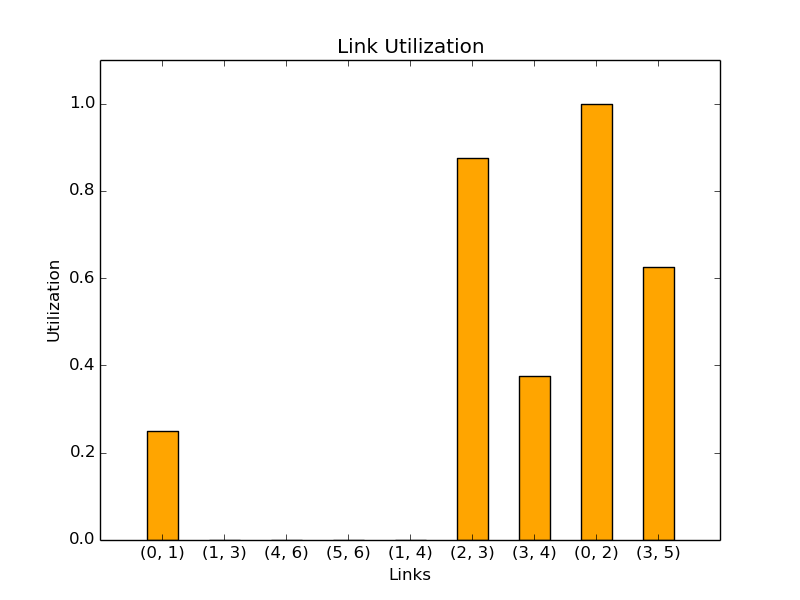
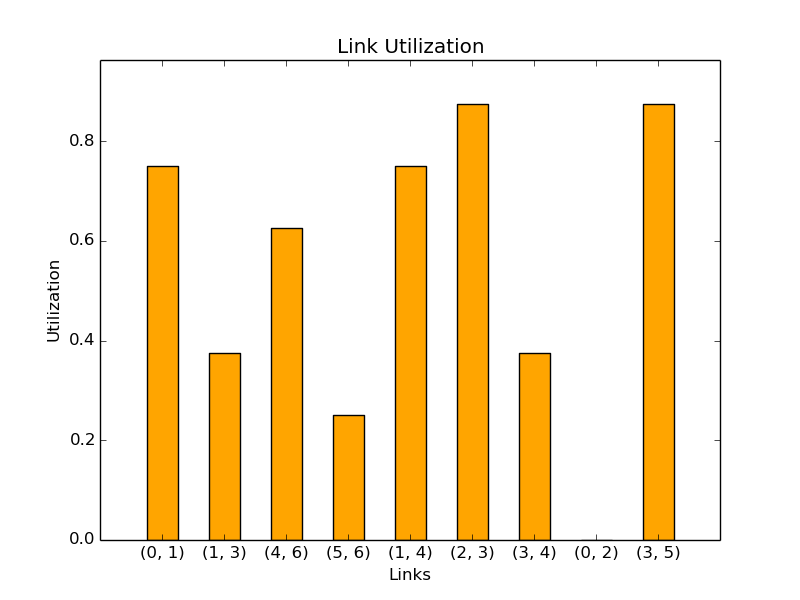
working new version of reroute - still to tidy up and check logic

diff --git a/pathfinder.py b/pathfinder.py
@@ -100,9 +100,9 @@ for j in range(repeats):
 				optimal_path = gf.select_path(path_pack_in_empty_graph, path_selection_criterion)
 				print 'The best path in the empty graph would be: '+str(optimal_path)
 
-				# find the shoretst intersection path of optimal path with previous allocated paths p_u (according to d_u)			
-				shortest_intersect=gf.check_setintersect(optimal_path, gf.sel_paths(d_list).values())
-				print 'having the shortest intersection path: '+str(shortest_intersect)
+				# find the shoretst intersection (but it must intersect! thresh=1) path of optimal path with previous allocated paths p_u (according to d_u)			
+				shortest_intersect=gf.check_setintersect(optimal_path, gf.sel_paths(d_list).values(),1)
+				print 'having the shortest intersection path: of optimal path with previous allocated paths p_u (according to d_u) '+str(shortest_intersect)
 
 				# if intersections found, try to reroute
 				if shortest_intersect!=[]:
@@ -120,10 +120,9 @@ for j in range(repeats):
 					if len(d_u_paths)>0:
 						print 'corresponds to demand number: '+str(d_u)+' to the demand: '+str(d_list[d_u].source)+' ==> '+str(d_list[d_u].target)
 						print 'which has the following alternative paths stored: '+str(d_u_paths)
-						p_u=gf.check_setintersect(optimal_path, d_u_paths)
+						p_u=gf.check_setintersect(optimal_path, d_u_paths,0)
 						print 'the least intersecting with p_n of d_n is '+str(p_u)
-						if p_u==[]:
-							p_u=min(d_u_paths)
+
 						# plot path to be deallocated
 						[plot_pngs, plot_counter] = gf.ppng(G_updated, d_list[d_u], plot_pngs, plot_counter, 2, plot_enable)
 						number_of_rerouting_attempts+=1
@@ -137,18 +136,30 @@ for j in range(repeats):
 						print 'allocate d_u with new path p_u: '+str(p_u)
 						[G_updated, sel_path] = gf.alloc_p(G_updated, d_list[d_u], p_u)
 						if sel_path!=[]:
+							print 'successful rerouting of p_u'
 							# plot d_u with p_u allocated path
-							[plot_pngs, plot_counter] = gf.ppng(G_updated, d_list[d_u], plot_pngs, plot_counter, 1, plot_enable)
+							[plot_pngs, plot_counter] = gf.ppng(G_updated, d_list[d_u], plot_pngs, plot_counter, 3, plot_enable)
 							########### mache das folgende nur, wenn das vorher geglueckt ist!!  ##### 
 					
 							# try to allocate d_n
 							[G_updated, paths_pack, sel_path]=gf.alloc(G_updated,d_list[i],path_selection_criterion)
 							if paths_pack!=[]:
 								number_of_rerouting_success+=1
+								print 'successful routing of p_n'
+							else:
+								print 'not possible to allocate p_n'
+								print 'roll back d_u'
+								[G_updated, sel_path] = gf.alloc_p(G_updated, d_list[d_u], old_p_u)
+								[plot_pngs, plot_counter] = gf.ppng(G_updated, d_list[d_u], plot_pngs, plot_counter, 3, plot_enable)
 							# plot d_n
 							[plot_pngs, plot_counter] = gf.ppng(G_updated, d_list[i], plot_pngs, plot_counter, 1, plot_enable)
 						else:
+							print 'rerouting was not possible, p_u was not allocatable'
+							print 'roll back d_u'
 							[G_updated, sel_path] = gf.alloc_p(G_updated, d_list[d_u], old_p_u)
+							[plot_pngs, plot_counter] = gf.ppng(G_updated, d_list[d_u], plot_pngs, plot_counter, 3, plot_enable)
+				else:
+					print 'there was no rerouting alternative'
 
 
 							

diff --git a/graphFunctions.py b/graphFunctions.py
@@ -62,7 +62,7 @@ def alloc_p(G, d, sel_path):
 	# store sel path in demand
 	d.set_allocated()
 	d.set_path(sel_path)
-	print 'd.path is '+str(d.get_path())
+
 	# update graph
 	G_updated=update_edges(G_updated, sel_path, d.get_bw())
 
@@ -229,6 +229,7 @@ def plot_graphviz(G,demand,plot_counter,colorscheme):
 	colorpool={}
 	colorpool[1]=['green','red','blue']
 	colorpool[2]=['chartreuse4','brown4','darkorange']
+	colorpool[3]=['chartreuse4','brown4','red']	
 	
 	colors=colorpool[colorscheme]
 
@@ -297,15 +298,20 @@ def cmpT(tuple1, tuple2):
 	else:
 		return 0
 
-# check a path vs. a set of paths and return the least intersecting path
-def check_setintersect(path, pathset):
+# check a path vs. a set of paths and return the shortest intersecting path,
+# that intersects more than 'threshhold'
+def check_setintersect(path, pathset, threshhold):
 	min_degree=None
+	min_length=None
 	shortest_intersect=[]
 	for i in range(len(pathset)):
 		degree = check_intersect(path,pathset[i])
-		if degree<min_degree or min_degree==None:
-			shortest_intersect=pathset[i]
-			min_degree=degree
+		if degree>=threshhold:
+			if degree<min_degree or min_degree==None:
+				if len(pathset[i])<min_length or min_degree==None:
+					shortest_intersect=pathset[i]
+					min_length=len(pathset[i])
+					min_degree=degree
 	return shortest_intersect
 
 # check 2 paths on having some of the same edges
